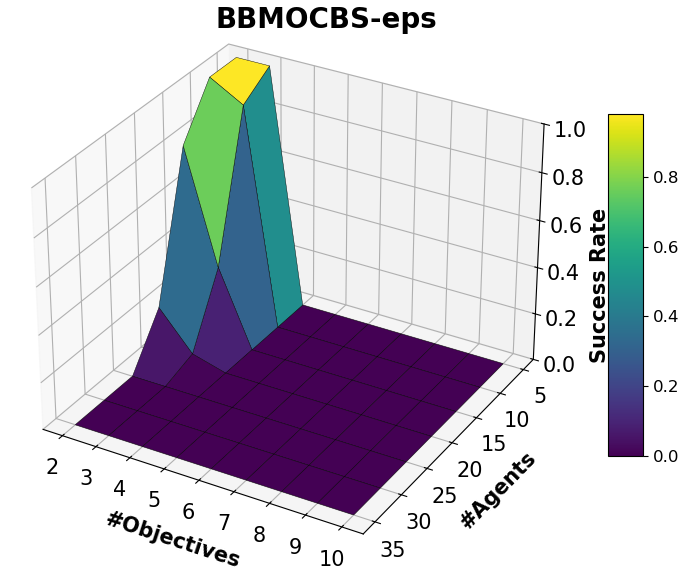
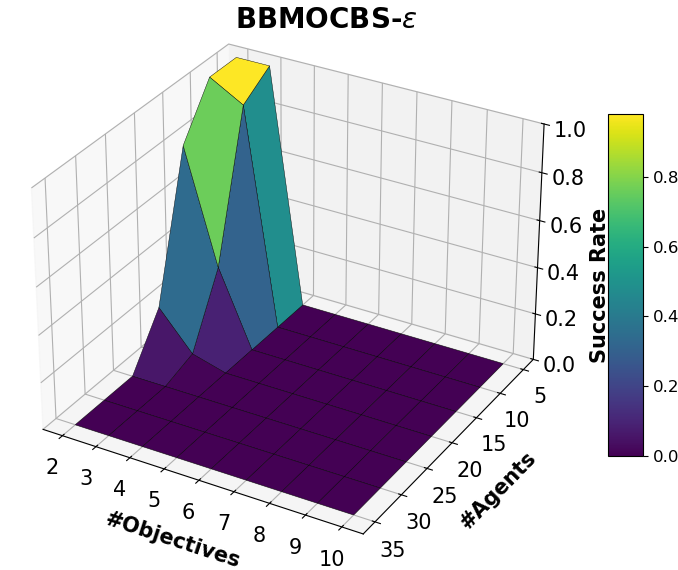
generated success rate contours for random-32-32-20

Changed region(s): [[0.3097, 0.0, 0.6504, 0.0596]]

diff --git a/scripts/plot_dimensional_trend.py b/scripts/plot_dimensional_trend.py
@@ -24,7 +24,7 @@ algorith_name = {
     "BBMOCBS-k_1": "BBMOCBS-k (k=1)",
     "BBMOCBS-k_5": "BBMOCBS-k (k=5)",
     "BBMOCBS-k_10": "BBMOCBS-k (k=10)",
-    "BBMOCBS-eps": "BBMOCBS-eps",
+    "BBMOCBS-eps": r"BBMOCBS-$\epsilon$",
     "BBMOCBS-pex": "BBMOCBS-pex"
 }
 
